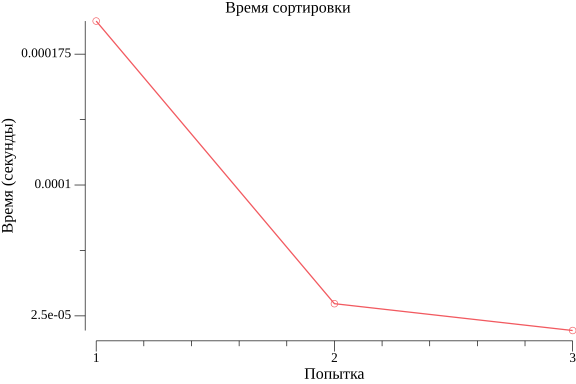
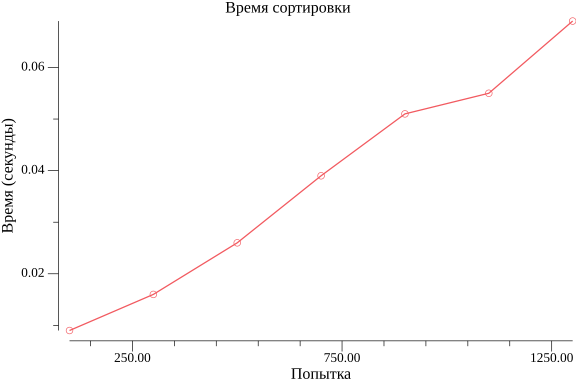
Fix bug

diff --git a/Tasks/Prack6/Task1/1.go b/Tasks/Prack6/Task1/1.go
@@ -23,25 +23,24 @@ func Sort(Mas []int) {
 			}
 		}
 	}
-	// Хочу глянуть сам массив
-	fmt.Println(Mas)
 }
 
 func main() {
 	var Lower, Upper int
 	var points plotter.XYs
-	fmt.Println("Введите нижнюю границу")
+	fmt.Print("Введите нижнюю границу: ")
 	fmt.Scan(&Lower)
 
-	fmt.Println("Введите верхнюю границу")
+	fmt.Print("Введите верхнюю границу: ")
 	fmt.Scan(&Upper)
 
-	for i := 0; i < 3; i++ {
+	MasDlin := 100
+
+	for range 7 {
 		// Генерация рандома и занесения в массив
 		var Mas []int
 
-		// Взял 20 как длину массива, не очень понял что именно нужно взять
-		for i := 0; i < 20; i++ {
+		for i := 0; i < MasDlin; i++ {
 			Random := rand.Intn(Upper-Lower+1) + Lower
 			Mas = append(Mas, Random)
 		}
@@ -49,14 +48,14 @@ func main() {
 		// Засекаем время
 		TimeStart := time.Now()
 		Sort(Mas)
-		Duration := time.Since(TimeStart).Seconds()
+		Duration := float64(time.Since(TimeStart).Microseconds()) / 1000.0 // в миллисекундах
 
 		points = append(points, plotter.XY{
-			X: float64(i + 1), // номер попытки
+			X: float64(MasDlin),
 			Y: Duration,
 		})
 
-		fmt.Printf("Прошло времени с момента начала: %.6f секунд\n", Duration)
+		MasDlin += 200
 	}
 
 	// Рисуем график
@@ -71,7 +70,7 @@ func main() {
 	}
 
 	// Сохраняем график в файл
-	if err := p.Save(6*vg.Inch, 4*vg.Inch, "output.png"); err != nil {
+	if err := p.Save(8*vg.Inch, 6*vg.Inch, "output.png"); err != nil {
 		panic(err)
 	}
 

diff --git a/Tasks/Prack7/Task1/1.go b/Tasks/Prack7/Task1/1.go
@@ -22,8 +22,6 @@ func Sort(Mas []int, Low int, High int) {
 		return
 	}
 
-	fmt.Println(Mas)
-
 	Wall := Low        // Стена
 	Pivot := Mas[High] // Последний элемент массива
 
@@ -34,9 +32,6 @@ func Sort(Mas []int, Low int, High int) {
 
 			// Переносим стену дальше, что бы первый элемент массива больше не трогали
 			Wall++
-
-			// Для наглядности выведу сам массив
-			fmt.Println(Mas)
 		}
 	}
 
@@ -57,12 +52,14 @@ func main() {
 	fmt.Print("Введите верхнюю границу: ")
 	fmt.Scan(&Upper)
 
-	for i := 0; i < 3; i++ {
+	MasDlin := 100
+
+	for range 7 {
 		// Генерация рандома и занесения в массив
 		var Mas []int
 
 		// Взял 6 как длину массива, не очень понял что именно нужно взять
-		for i := 0; i < 6; i++ {
+		for i := 0; i < MasDlin; i++ {
 			Random := rand.Intn(Upper-Lower+1) + Lower
 			Mas = append(Mas, Random)
 		}
@@ -70,14 +67,14 @@ func main() {
 		// Засекаем время
 		TimeStart := time.Now()
 		Sort(Mas, 0, len(Mas)-1)
-		Duration := time.Since(TimeStart).Seconds()
+		Duration := float64(time.Since(TimeStart).Microseconds()) / 1000.0 // в миллисекундах
 
 		points = append(points, plotter.XY{
-			X: float64(i + 1), // номер попытки
+			X: float64(MasDlin), // номер попытки
 			Y: Duration,
 		})
 
-		fmt.Printf("Прошло времени с момента начала: %.6f секунд\n", Duration)
+		MasDlin += 200
 	}
 
 	// Рисуем график
